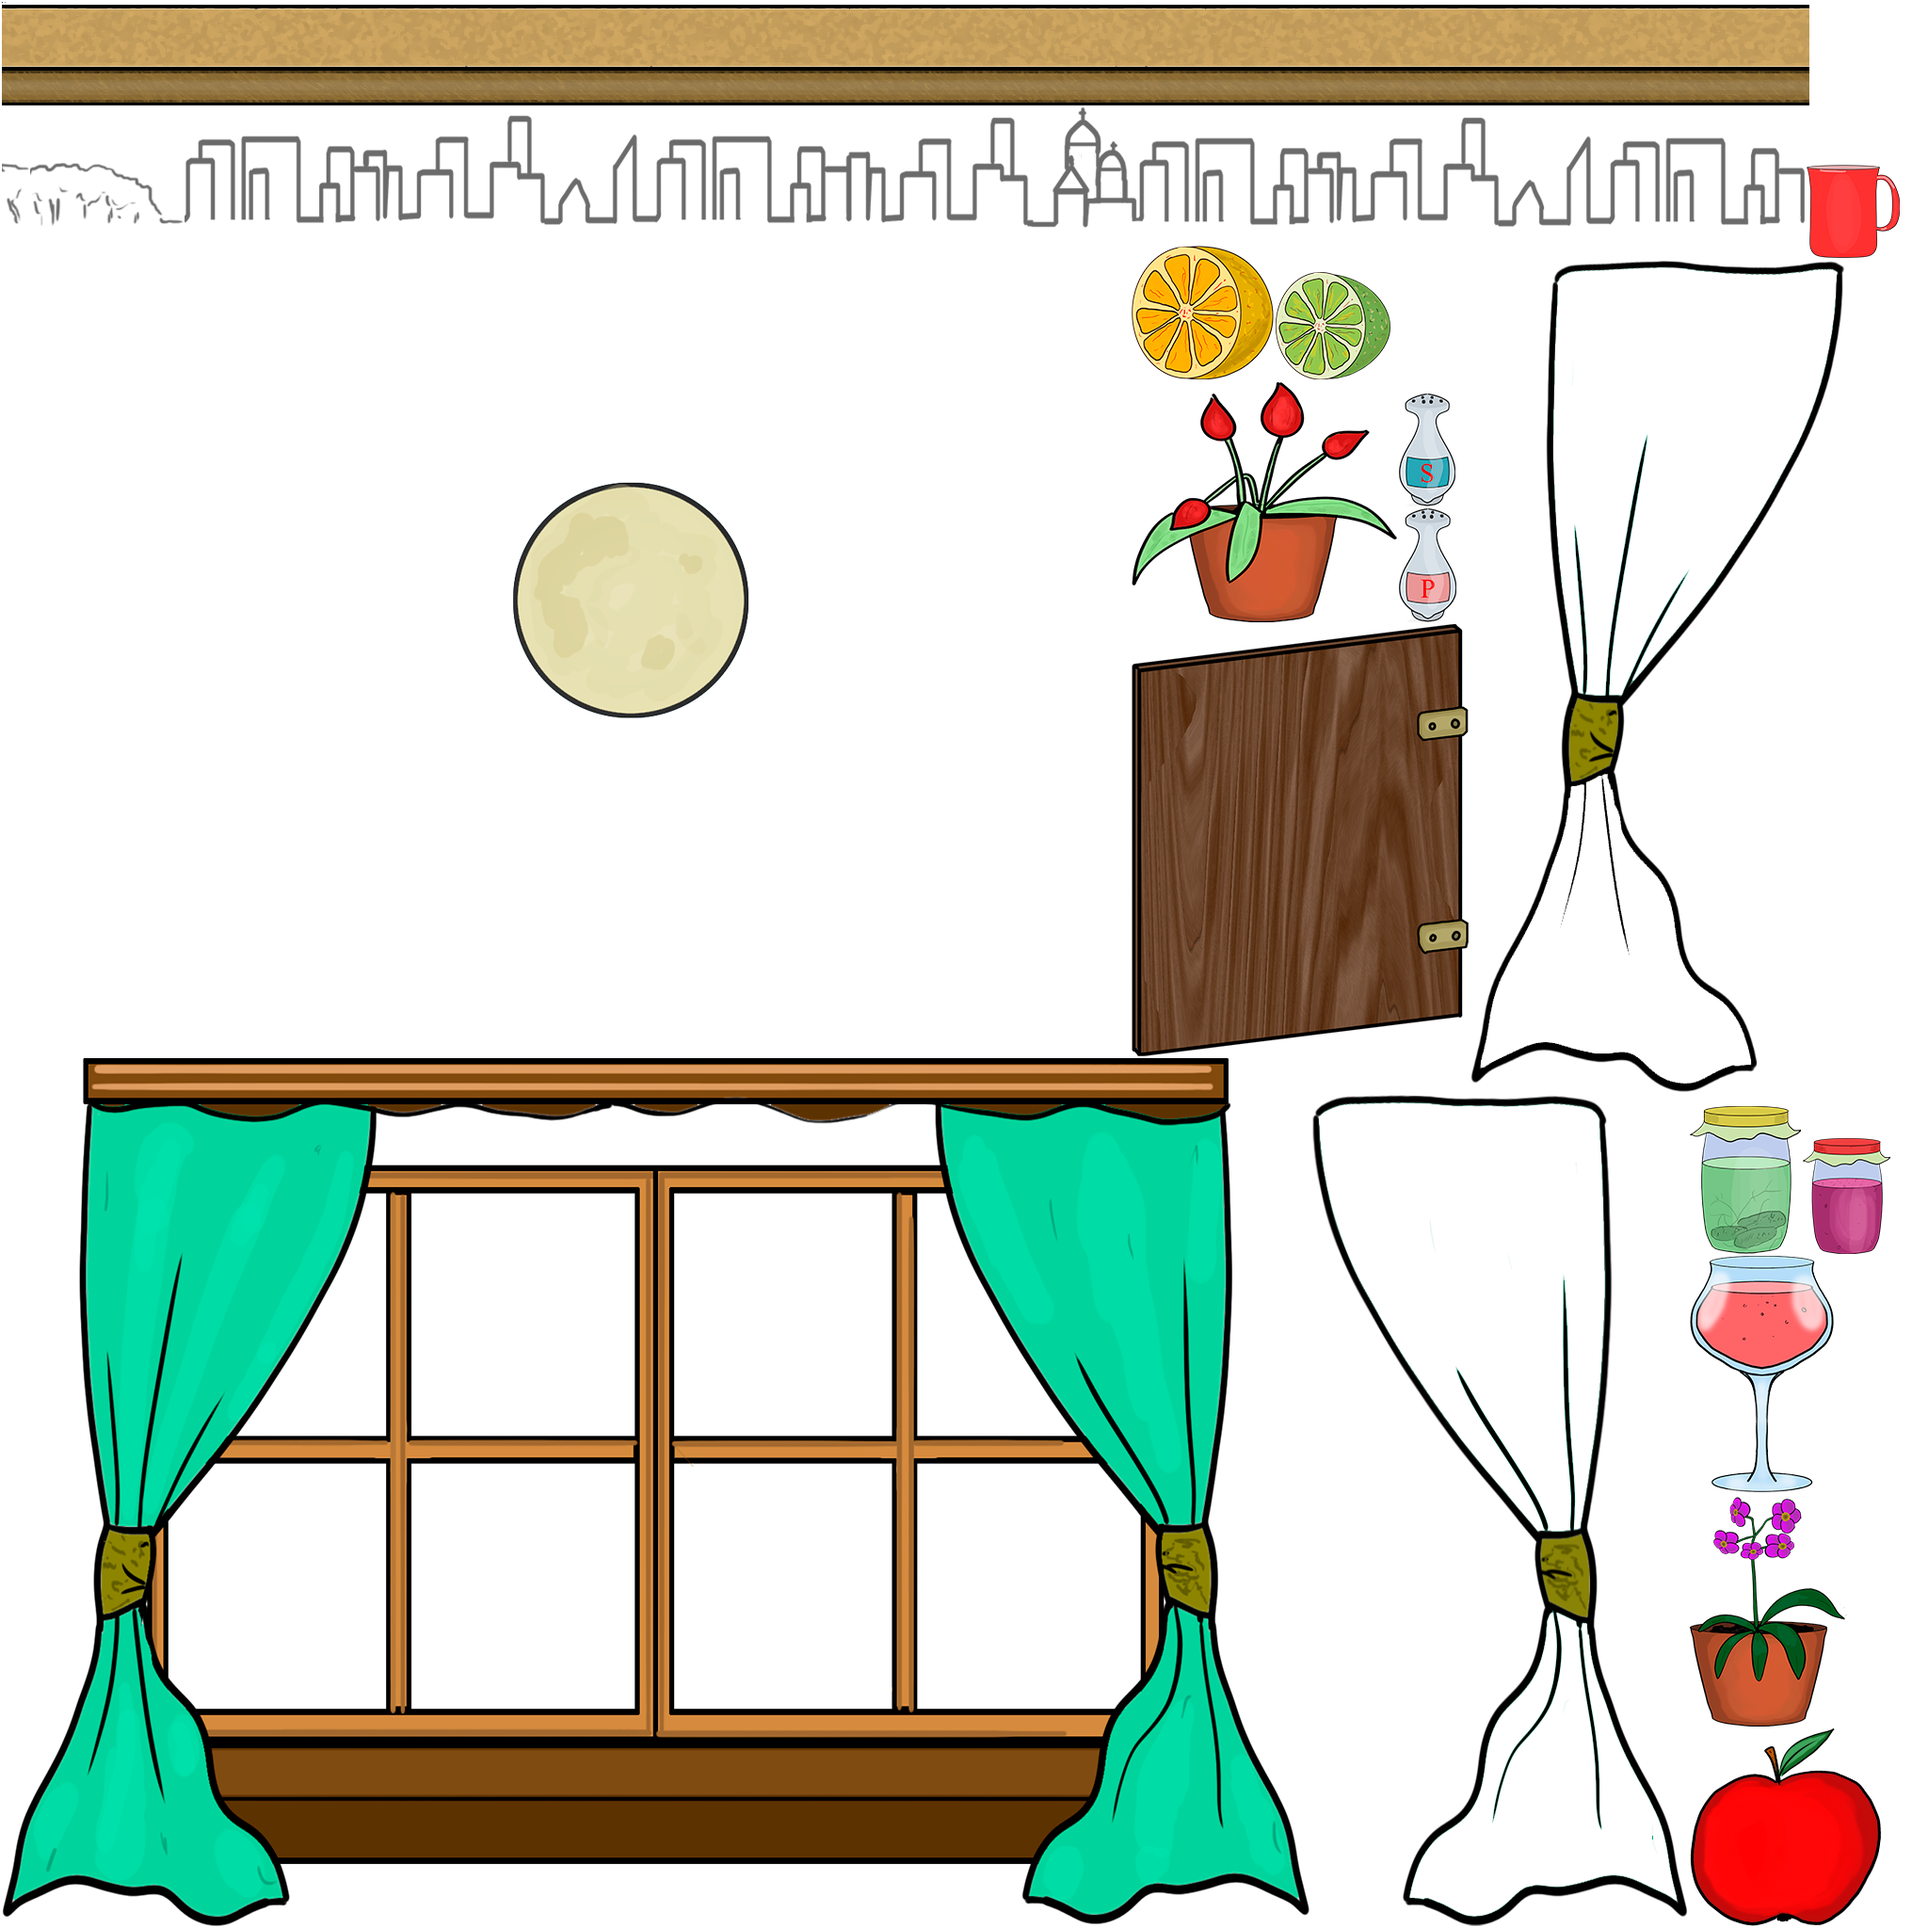
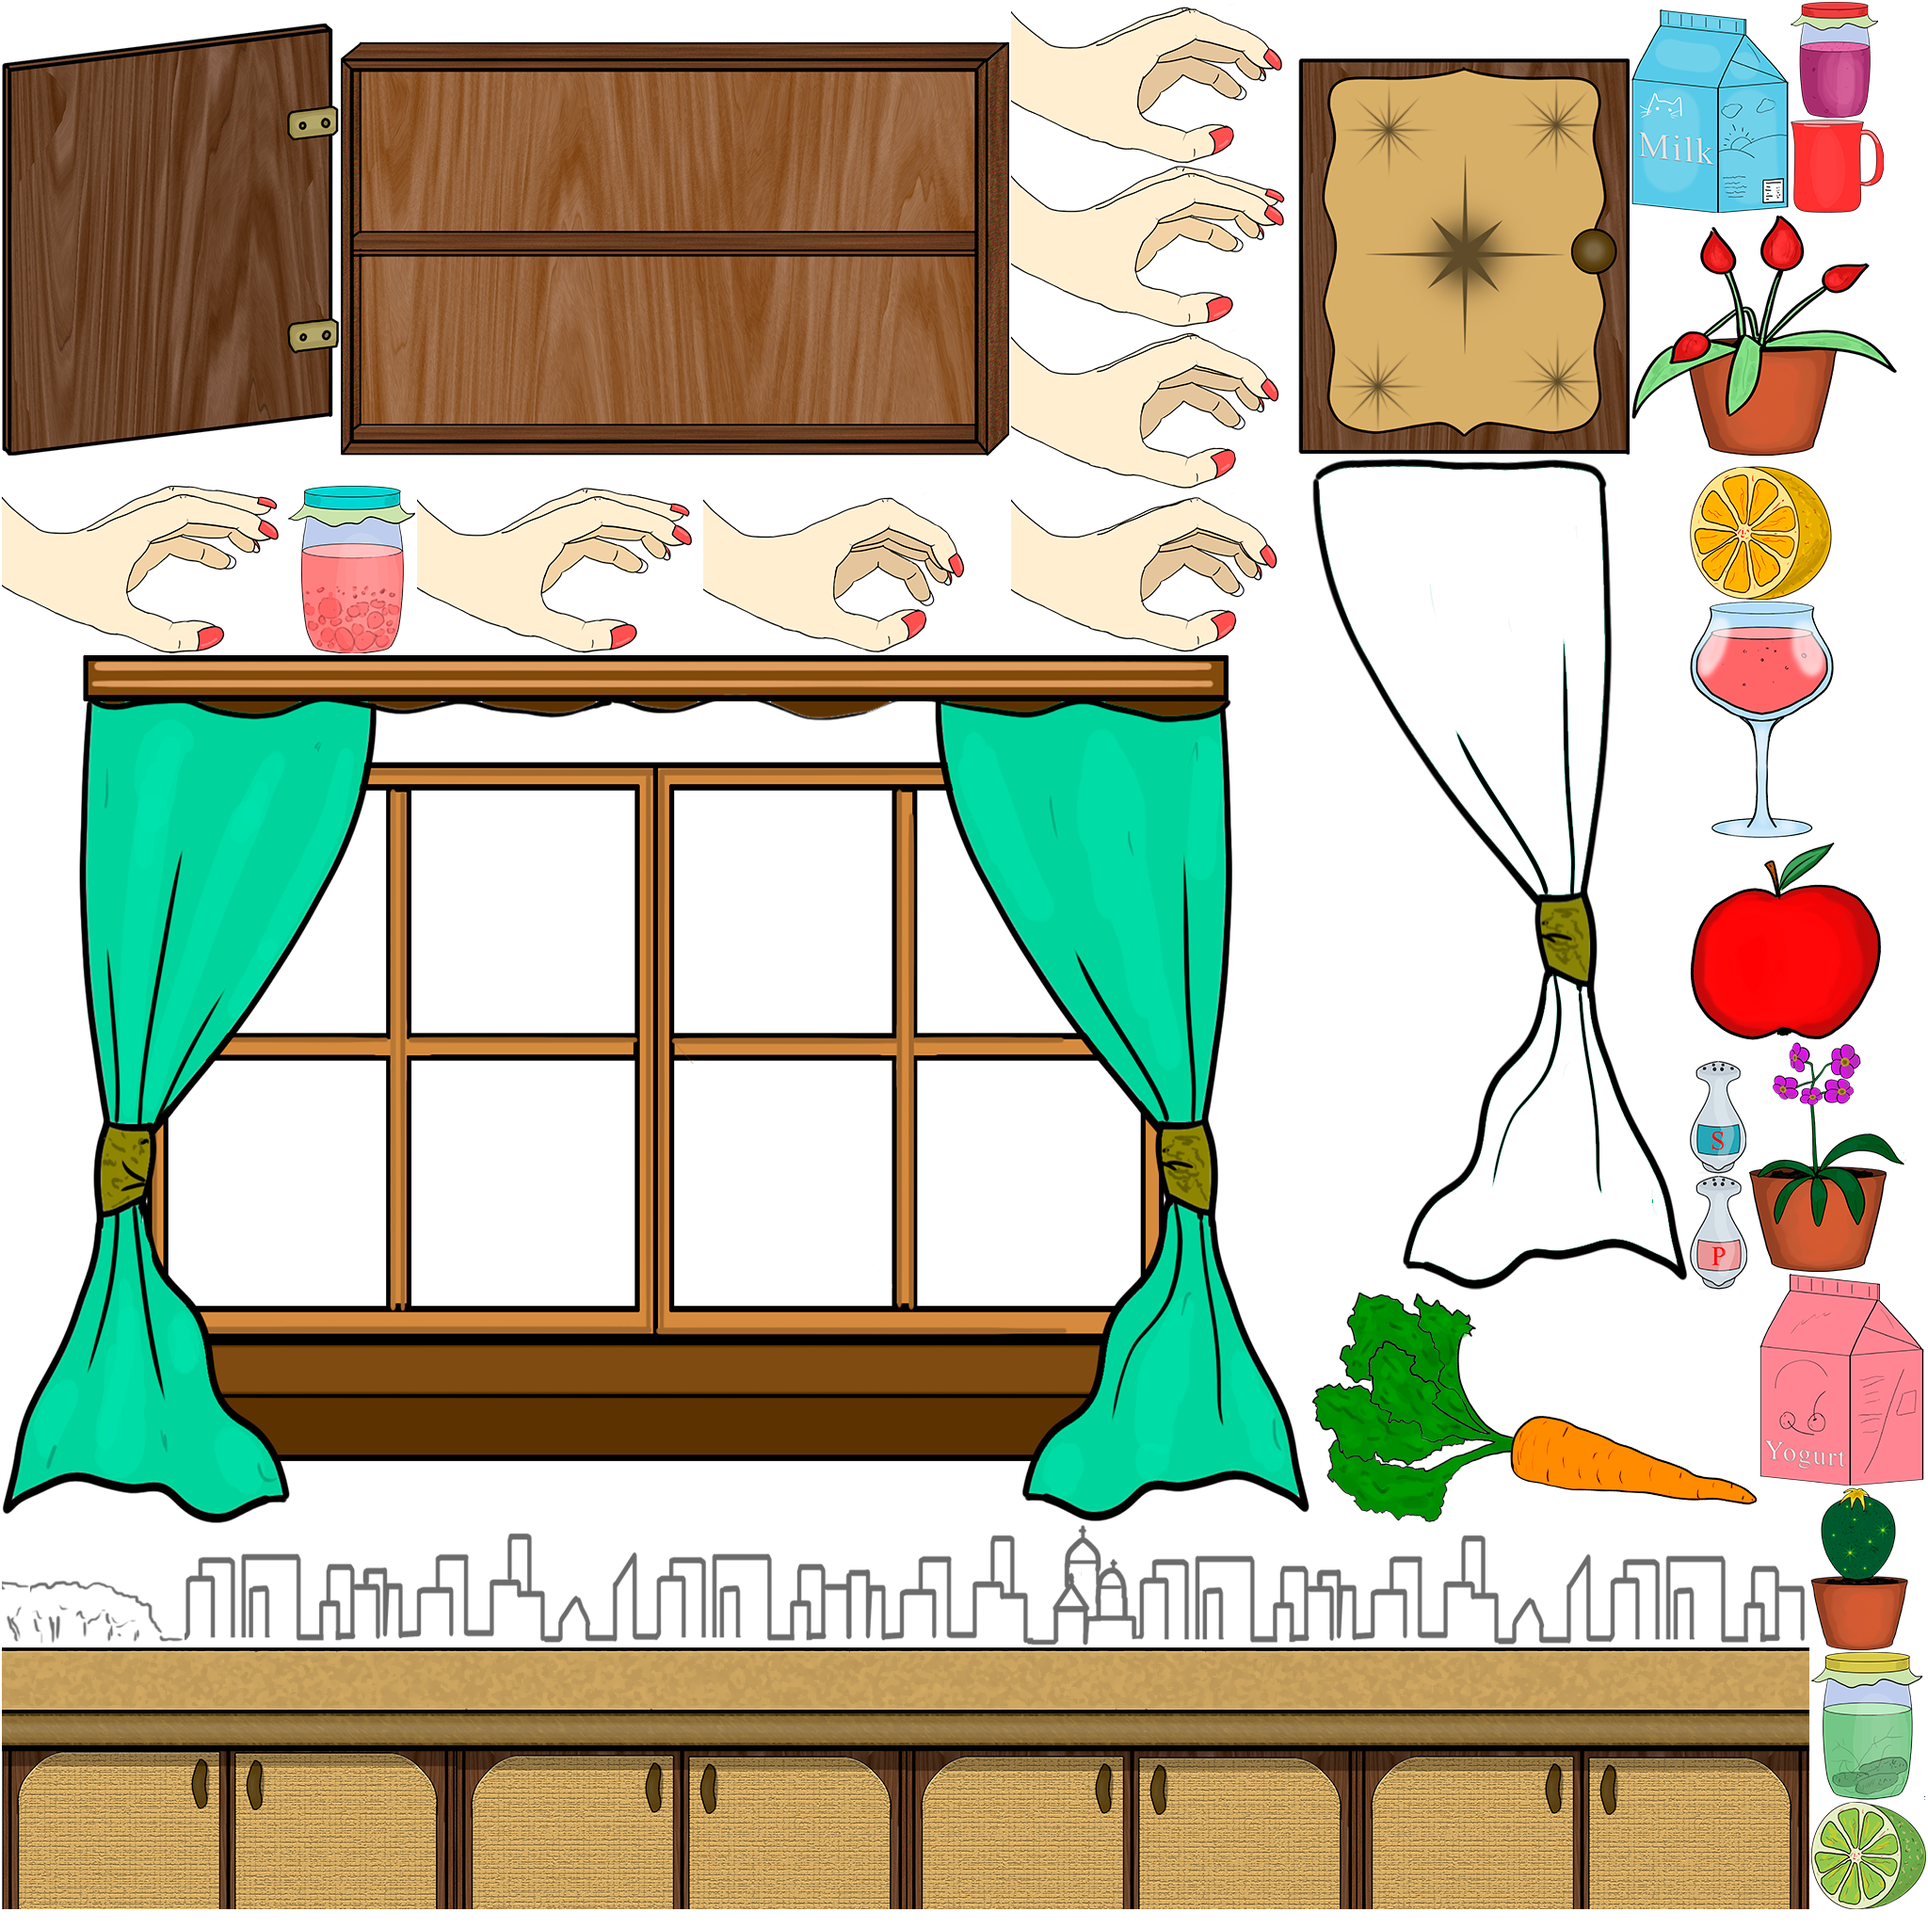
(fix) move table and other items higher
- change table texture

diff --git a/core/src/com/mygdx/game/actors/Window.kt b/core/src/com/mygdx/game/actors/Window.kt
@@ -13,7 +13,7 @@ import com.mygdx.game.impl.Scrolled
 import java.util.*
 import kotlin.collections.ArrayList
 
-class Window(manager : AssetManager) : Actor(), Scrollable {
+class Window(manager : AssetManager, startY : Float) : Actor(), Scrollable {
     private val texture = manager.get(Descriptors.environment)
     private val region = texture.findRegion(Assets.EnvironmentAtlas.WINDOW)
 
@@ -24,7 +24,7 @@ class Window(manager : AssetManager) : Actor(), Scrollable {
     private var curtainColor = getRandomColor()
 
     var scroll = Scrolled(
-            Gdx.graphics.width.toFloat(), 80f,
+            Gdx.graphics.width.toFloat(), startY,
             region.originalWidth,
             region.originalHeight,
             Scrolled.ScrollSpeed.LEVEL_1.value)

diff --git a/core/src/com/mygdx/game/world/GameWorld.kt b/core/src/com/mygdx/game/world/GameWorld.kt
@@ -22,13 +22,13 @@ class GameWorld(private val manager : AssetManager) {
     val stage = Stage(ScreenViewport())
 
     private val background = Background(manager)
-    private val table = Table(manager)
-    private val window = Window(manager)
+    private val table = Table(manager, 240f)
+    private val window = Window(manager, 270f)
     private val moon = Moon(manager, window)
     private val city = City(manager, window)
     private val sky = Sky(manager, window)
     private val flower = FlowerInPot(manager, window)
-    private val cookie = Cookie(manager)
+    private val cookie = Cookie(manager, table.worktopY)
     private val shadow = Shadow(manager)
     private val cupboard = Cupboard(manager, window)
     private val score = Score(manager)

diff --git a/core/src/com/mygdx/game/actors/Table.kt b/core/src/com/mygdx/game/actors/Table.kt
@@ -9,11 +9,11 @@ import com.mygdx.game.data.Assets
 import com.mygdx.game.data.Descriptors
 import com.mygdx.game.impl.Scrolled
 
-class Table(manager : AssetManager) : Actor(), Scrollable {
+class Table(manager : AssetManager, yWorktop: Float) : Actor(), Scrollable {
     private val texture = manager.get(Descriptors.environment)
     private val region = texture.findRegion(Assets.EnvironmentAtlas.TABLE)
 
-    val worktopY = 50f
+    val worktopY = yWorktop
 
     private var scrollerBack = Scrolled(0f, 0f,
             region.originalWidth, region.originalHeight, Scrolled.ScrollSpeed.LEVEL_2.value)

diff --git a/core/src/com/mygdx/game/actors/Cookie.kt b/core/src/com/mygdx/game/actors/Cookie.kt
@@ -13,9 +13,8 @@ import com.mygdx.game.data.Descriptors
 import com.mygdx.game.impl.Physical
 import com.mygdx.game.impl.Scrollable
 
-class Cookie(manager : AssetManager,
-        startX: Float = ScreenConfig.widthGame/2,
-        private val startY: Float = 50f): Actor(), Scrollable, Physical{
+class Cookie(manager : AssetManager, private val startY: Float,
+        startX: Float = ScreenConfig.widthGame/2): Actor(), Scrollable, Physical{
 
     val position = Vector2(startX, startY)
     private val velocity = Vector2(0f, 0f)

diff --git a/core/src/com/mygdx/game/actors/Cupboard.kt b/core/src/com/mygdx/game/actors/Cupboard.kt
@@ -28,7 +28,7 @@ class Cupboard(manager : AssetManager, private val window : Window) : Actor(), S
     private var leftDoorRegion = getDoorRegion()
     private var rightDoorRegion = getDoorRegion()
 
-    private val startY = 400f
+    private val startY = window.getWindowsillY() + 150f
     private val startX =  200
     private val windowX2 = window.scroll.getX() + window.scroll.width
 

diff --git a/core/src/com/mygdx/game/actors/City.kt b/core/src/com/mygdx/game/actors/City.kt
@@ -15,7 +15,7 @@ class City(manager : AssetManager, private val window : Window) : Actor(), Scrol
 
     private val posCity = Position(
             0f,
-            window.scroll.getY() + window.getWindowsillY(),
+            window.getWindowsillY(),
             cityRegion.originalWidth.toFloat(),
             cityRegion.originalHeight.toFloat())
 
